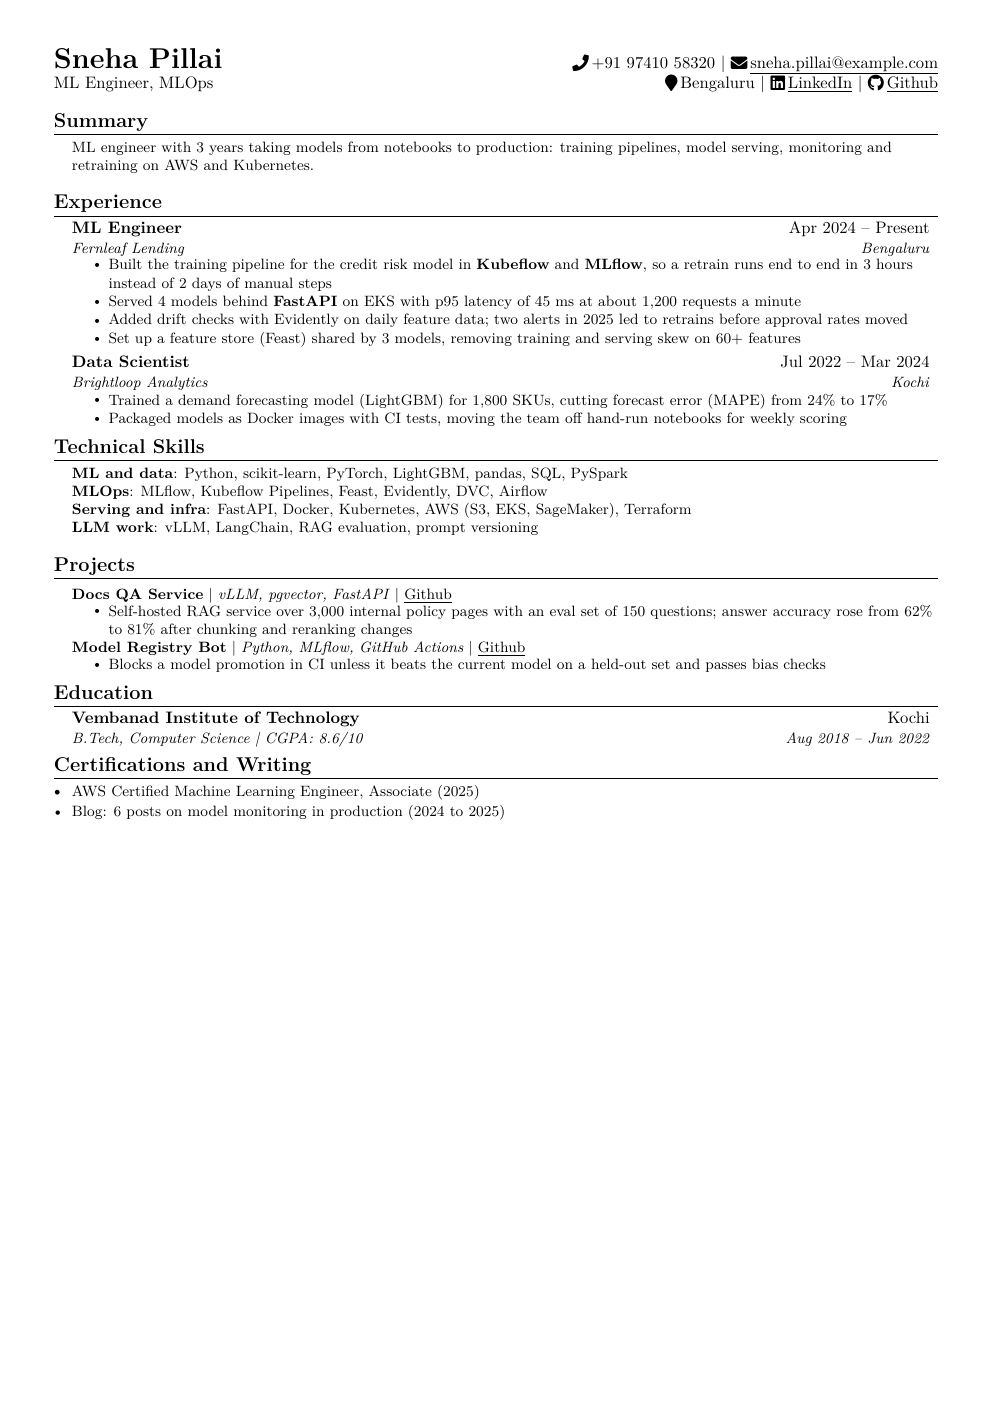
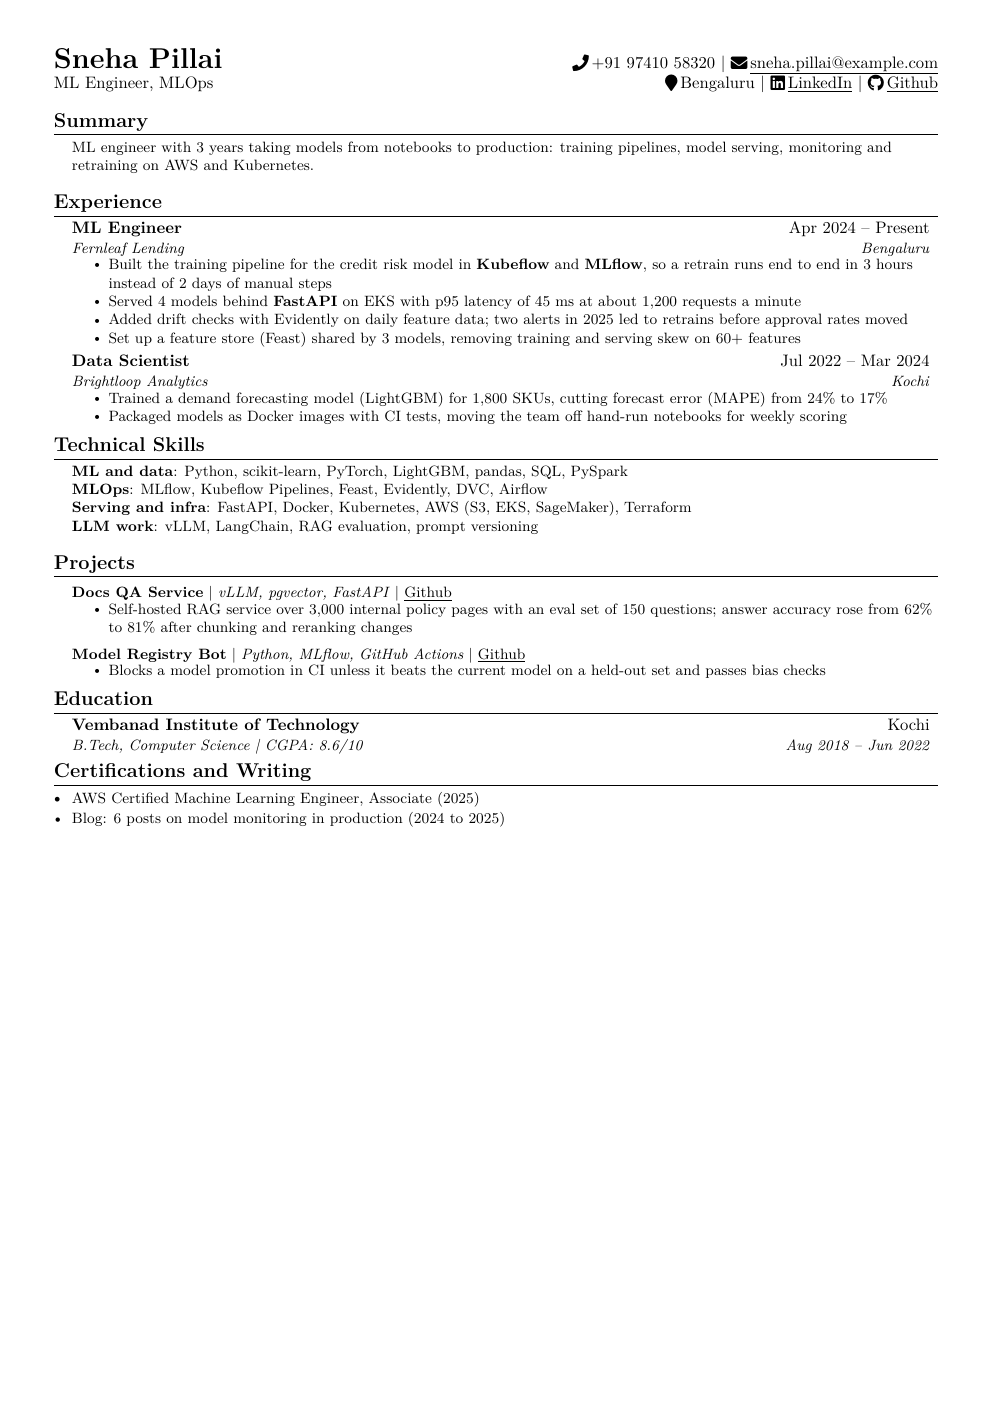
Space roles apart in the Compact template (#45)

Changed region(s): [[0.0624, 0.245, 0.9366, 0.5819], [0.8741, 0.49, 0.9366, 0.5513], [0.7805, 0.5207, 0.8429, 0.5513]]

diff --git a/backend/src/templates/format-samples.ts b/backend/src/templates/format-samples.ts
@@ -230,9 +230,7 @@ export const formatSamples: { slug: string; templateId: string; content: ResumeC
           "ML engineer with 3 years taking models from notebooks to production: training pipelines, model serving, monitoring and retraining on AWS and Kubernetes.",
         ),
         experience("Experience", [
-          // The Compact layout sets the next role tight against a one-line last bullet.
           {
-            spaceAfter: 6,
             ...exp("Fernleaf Lending", "ML Engineer", "Bengaluru", "2024-04", "present", [
               "Built the training pipeline for the credit risk model in **Kubeflow** and **MLflow**, so a retrain runs end to end in 3 hours instead of 2 days of manual steps",
               "Served 4 models behind **FastAPI** on EKS with p95 latency of 45 ms at about 1,200 requests a minute",

diff --git a/backend/test/templates.test.ts b/backend/test/templates.test.ts
@@ -164,7 +164,7 @@ const beforeLayouts: Record<string, string> = {
[8 lines of base64/hex data omitted]

diff --git a/backend/src/templates/sb2nov.ts b/backend/src/templates/sb2nov.ts
@@ -33,6 +33,8 @@ export function renderSb2nov(input: ResumeContent, layout?: ResumeLayout) {
 \setlist{itemsep=0pt, topsep=2pt}
 \titleformat{\section}{\vspace{-6pt}\raggedright\large\bfseries}{}{0em}{}[\color{black}\titlerule \vspace{-6pt}]
 ${sharedMacros}
+% The shared macros pull space back between roles, which assumes the default item spacing that this layout removes.
+\renewcommand{\resumeSubHeadingListStart}{\begin{itemize}[leftmargin=0.15in, label={}, itemsep=5pt]}
 \begin{document}
 \begin{tabular*}{\textwidth}{l@{\extracolsep{\fill}}r}
   \textbf{\LARGE ${tex(basics.name)}} & ${contacts.slice(0, 2).join(" $|$ ")} \\${gap ? `[${gap}pt]` : ""}
